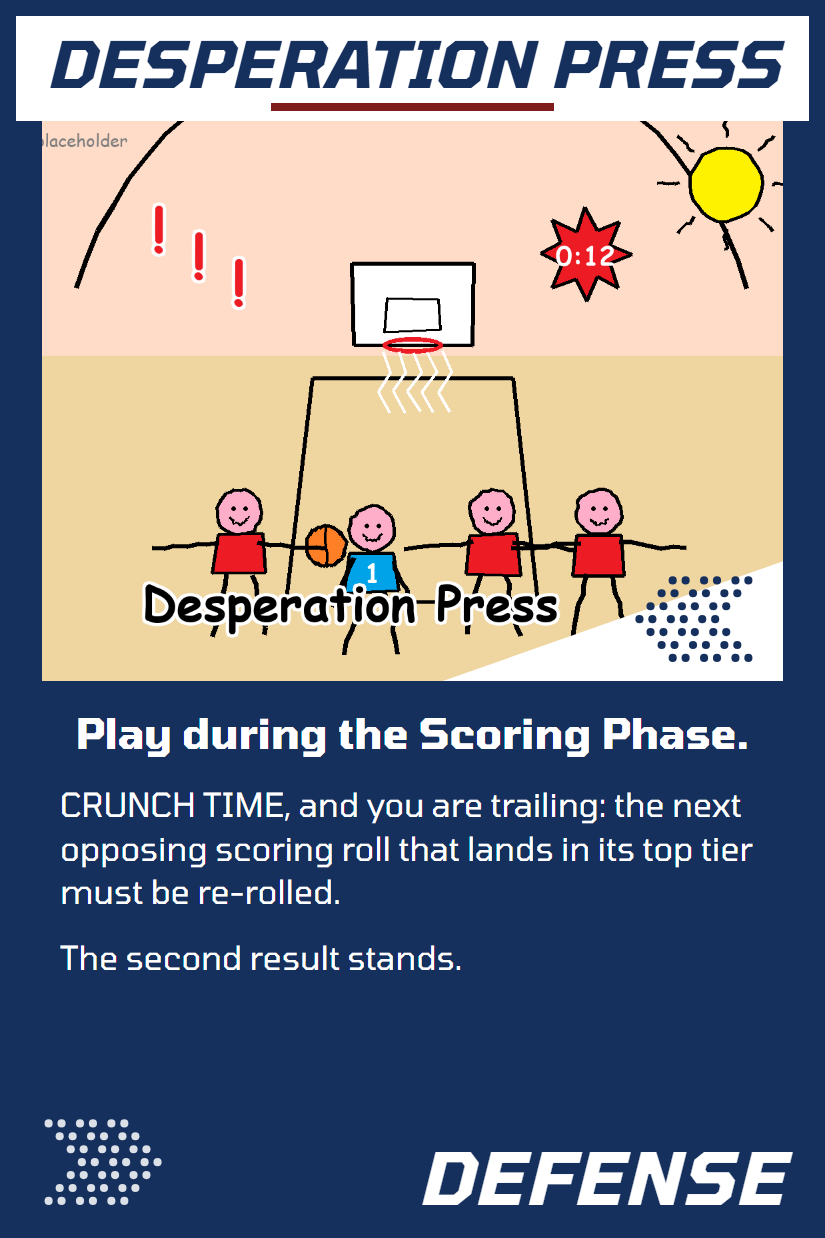
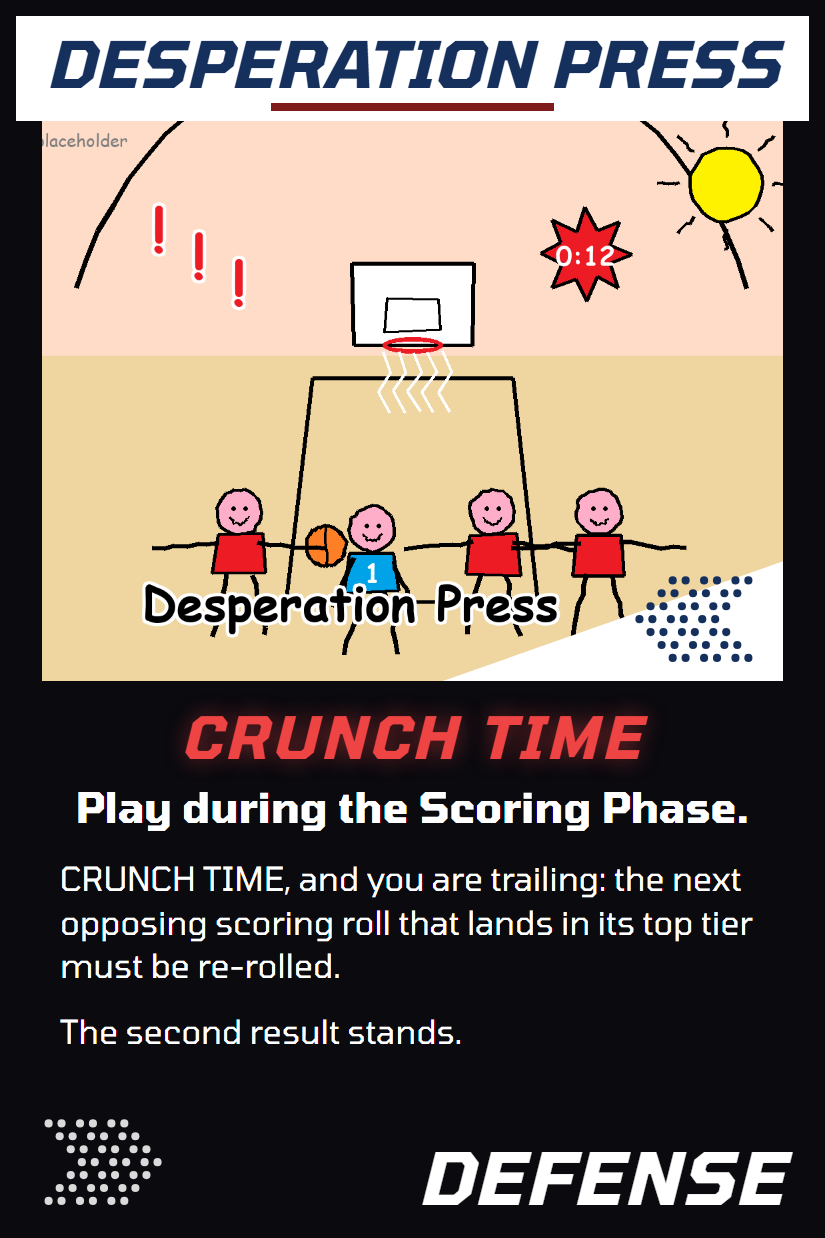
feat(cards): Unethical Hoops art with its sponsor line, black crunch faces, owned-only builder, sign-in notice
- Unethical Hoops: the user's photo (Shai drawing the foul) replaces the
  placeholder; "PRESENTED BY" over the Underdog mark in the strat footer
  (presentedBy on the card, logo in public/logos/, cut to its circle)
- Crunch-only cards print black with a CRUNCH TIME stamp above the phase
  line (isCrunchFace reads CRUNCH_CARDS); the seven faces re-exported
- Team Builder: signed in means owned only, even before the first pack —
  the empty pool points at the Starter Pack in Collection
- Guests see a sign-in notice under the beta banner: the starter pack,
  collection, seasons and the roaming game live on the Google account;
  How to Play says so too

diff --git a/src/cards/StratTemplate.jsx b/src/cards/StratTemplate.jsx
@@ -11,6 +11,7 @@
 // face keeps the house navy and uses `color` only for the thin accent rule
 // under the title, which is enough to tell cards apart in a spread without
 // breaking the set's one look.
+import { CRUNCH_CARDS } from '../game/strats.js';
 import React from 'react';
 import styles from './StratTemplate.module.css';
 import { resolvePhotoUrl } from './photo.js';
@@ -25,6 +26,17 @@ const PHASE_LINES = {
   post_roll: 'Play after a scoring roll.',
   reaction: 'Play in reaction to an opponent’s card.',
 };
+
+/**
+ * CRUNCH-ONLY CARDS LOOK LIKE IT. Black face, and CRUNCH TIME printed big
+ * above the phase line, so a hand can be read from across the table. The
+ * user (2026-09-08): "all Crunch-Time cards to be Black or say CRUNCH-TIME big
+ * somewhere." Both. The list is the engine's own (strats.js), so a new
+ * crunch card gets the face the moment it is gated.
+ */
+export function isCrunchFace(strat) {
+  return CRUNCH_CARDS.includes(strat?.id);
+}
 
 export function phaseLine(phase) {
   return PHASE_LINES[phase] ?? 'Play during the game.';
@@ -94,6 +106,7 @@ export default function StratTemplate({
 }) {
   const s = strat ?? card;
   const { paragraphs, locked } = faceParagraphs(s);
+  const crunch = isCrunchFace(s);
   const resolved =
     artUrl ??
     resolvePhotoUrl({
@@ -112,7 +125,7 @@ export default function StratTemplate({
     : undefined;
   return (
     <div
-      className={styles.card}
+      className={`${styles.card} ${crunch ? styles.crunch : ''}`}
       data-strat-id={s.id}
       style={{ width: STRAT_CARD_WIDTH, height: STRAT_CARD_HEIGHT }}
     >
@@ -139,6 +152,7 @@ export default function StratTemplate({
       </div>
 
       <div className={styles.body}>
+        {crunch ? <div className={styles.crunchStamp}>CRUNCH TIME</div> : null}
         <div className={styles.phase}>{phaseLine(s.phase)}</div>
         {paragraphs.map((p, i) => (
           <p key={i} className={styles.rule}>{p}</p>
@@ -148,6 +162,20 @@ export default function StratTemplate({
 
       <div className={styles.footer}>
         <ChevronDots direction="right" className={styles.footChevrons} />
+        {s.presentedBy ? (
+          // THE SPONSOR LINE. The user (2026-09-08) dropped the Underdog logo
+          // "for the little 'presented by' part" of Unethical Hoops; the logo
+          // lives in public/logos/ with the team crests and is reached the way
+          // the app reaches those, under Vite's base.
+          <div className={styles.presented}>
+            <div className={styles.presentedLabel}>PRESENTED BY</div>
+            <img
+              className={styles.presentedLogo}
+              src={`${import.meta.env.BASE_URL}logos/${s.presentedBy.logo}`}
+              alt={s.presentedBy.name}
+            />
+          </div>
+        ) : null}
         <div className={styles.side}>{s.side === 'def' ? 'DEFENSE' : 'OFFENSE'}</div>
       </div>
     </div>

diff --git a/src/components/TeamBuilderTab.jsx b/src/components/TeamBuilderTab.jsx
@@ -16,7 +16,13 @@ export default function TeamBuilderTab({ teamA, setTeamA, teamB, setTeamB, onSta
   const { open } = useLightbox();
   const { user } = useAuth();
   const { toast, askText } = useDialogs();
-  const enforceOwnership = !!user && Object.keys(collection || {}).length > 0;
+  // SIGNED IN MEANS OWNED ONLY. This used to relax to the whole pool while the
+  // collection was empty — a fresh account, or one just reset — which is the
+  // one moment a new player is looking hardest, and it showed them every card
+  // in the game. The user (2026-09-08): "they have to find it, whether through
+  // the market or some other organic part of the game." Signed out stays a
+  // sandbox of the full pool, by design (the Cards tab is a guest tab).
+  const enforceOwnership = !!user;
   const [filters, setFilters] = useState(DEFAULT_FILTERS);
   const [loadModal, setLoadModal] = useState(null); // null | { slot: 'A'|'B', teams: [] }
 
@@ -114,6 +120,13 @@ export default function TeamBuilderTab({ teamA, setTeamA, teamB, setTeamB, onSta
       </div>
       <PoolFilters value={filters} onChange={setFilters} teams={allTeams} />
       <div className={styles.pool}>
+        {enforceOwnership && pool.length === 0 && (
+          <div style={{ gridColumn: '1 / -1', padding: '28px 16px', textAlign: 'center', color: 'var(--text-muted)', fontSize: 14, lineHeight: 1.6 }}>
+            {Object.keys(collection || {}).length === 0
+              ? <>No players yet. Your first twenty come in the <strong>Starter Pack</strong> — open it in <strong>Collection</strong>. After that: packs, rewards and the market.</>
+              : <>Nothing you own matches these filters.</>}
+          </div>
+        )}
         {pool.map(card => {
           const rarity = getPlayerRarity(card);
           const cfg = RARITY_CONFIG[rarity];

diff --git a/src/game/strats.js b/src/game/strats.js
@@ -161,6 +161,9 @@ export const STRATS = [
   // an offensive power or speed advantage of their choosing during
   // Crunch-Time." Read as a foul drawn: TWO free throws, each at +4.
   { id:'unethical_hoops',     name:'Unethical Hoops',    phase:'scoring',  side:'off', copies:1, locked:false, color:'#B91C1C', rarity:'rare', promo:true,
+    // The sponsor line on the face: a small PRESENTED BY over the logo in
+    // public/logos/, beside the team logos. Only this card has one today.
+    presentedBy: { name: 'Underdog', logo: 'underdog.png' },
     desc:'CRUNCH TIME: a player of yours with a Speed or Power advantage draws the foul — two free-throw checks at +4.' },
   { id:'run_the_floor',       name:'Run the Floor',      phase:'scoring',  side:'off', copies:1, locked:false, color:'#0D9488', rarity:'legendary',
     desc:'With three players at Speed 12+ on the floor: two Paint Shot Checks at +2, allocated by the defence, +1 Assist each. Stays in play until one of them is benched.' },

diff --git a/src/cards/StratTemplate.module.css b/src/cards/StratTemplate.module.css
@@ -137,3 +137,40 @@
   letter-spacing: 2px;
   line-height: 1;
 }
+
+/* The sponsor line: a small caption over a logo, sitting between the
+   chevrons and the side word on the footer's baseline. */
+.presented {
+  display: flex;
+  flex-direction: column;
+  align-items: center;
+  gap: 4px;
+  margin: 0 auto 22px;
+}
+.presentedLabel {
+  font-size: 16px;
+  font-weight: 700;
+  letter-spacing: 3px;
+  opacity: 0.75;
+}
+.presentedLogo {
+  height: 72px;
+  width: auto;
+  display: block;
+}
+
+/* Crunch-only cards: black, and stamped. */
+.crunch {
+  background: #0a0a0f;
+  border-color: #0a0a0f;
+}
+.crunchStamp {
+  font-size: 58px;
+  font-weight: 900;
+  font-style: italic;
+  letter-spacing: 4px;
+  text-align: center;
+  color: #ef4444;
+  margin: -6px 0 10px;
+  text-shadow: 0 0 22px rgba(239, 68, 68, 0.45);
+}

diff --git a/src/App.module.css b/src/App.module.css
@@ -69,6 +69,32 @@
   letter-spacing: 0.2px;
 }
 
+.signInCta {
+  display: flex;
+  align-items: center;
+  justify-content: center;
+  gap: 14px;
+  flex-wrap: wrap;
+  background: rgba(59, 130, 246, 0.14);
+  border-bottom: 1px solid rgba(59, 130, 246, 0.35);
+  color: var(--text);
+  font-size: 13px;
+  padding: 8px 16px;
+  text-align: center;
+}
+.signInCtaBtn {
+  background: var(--orange);
+  color: #fff;
+  border: none;
+  border-radius: 6px;
+  padding: 6px 14px;
+  font-size: 13px;
+  font-weight: 700;
+  cursor: pointer;
+  white-space: nowrap;
+}
+.signInCtaBtn:hover { filter: brightness(1.08); }
+
 .main {
   flex: 1;
   padding: 1.5rem;
